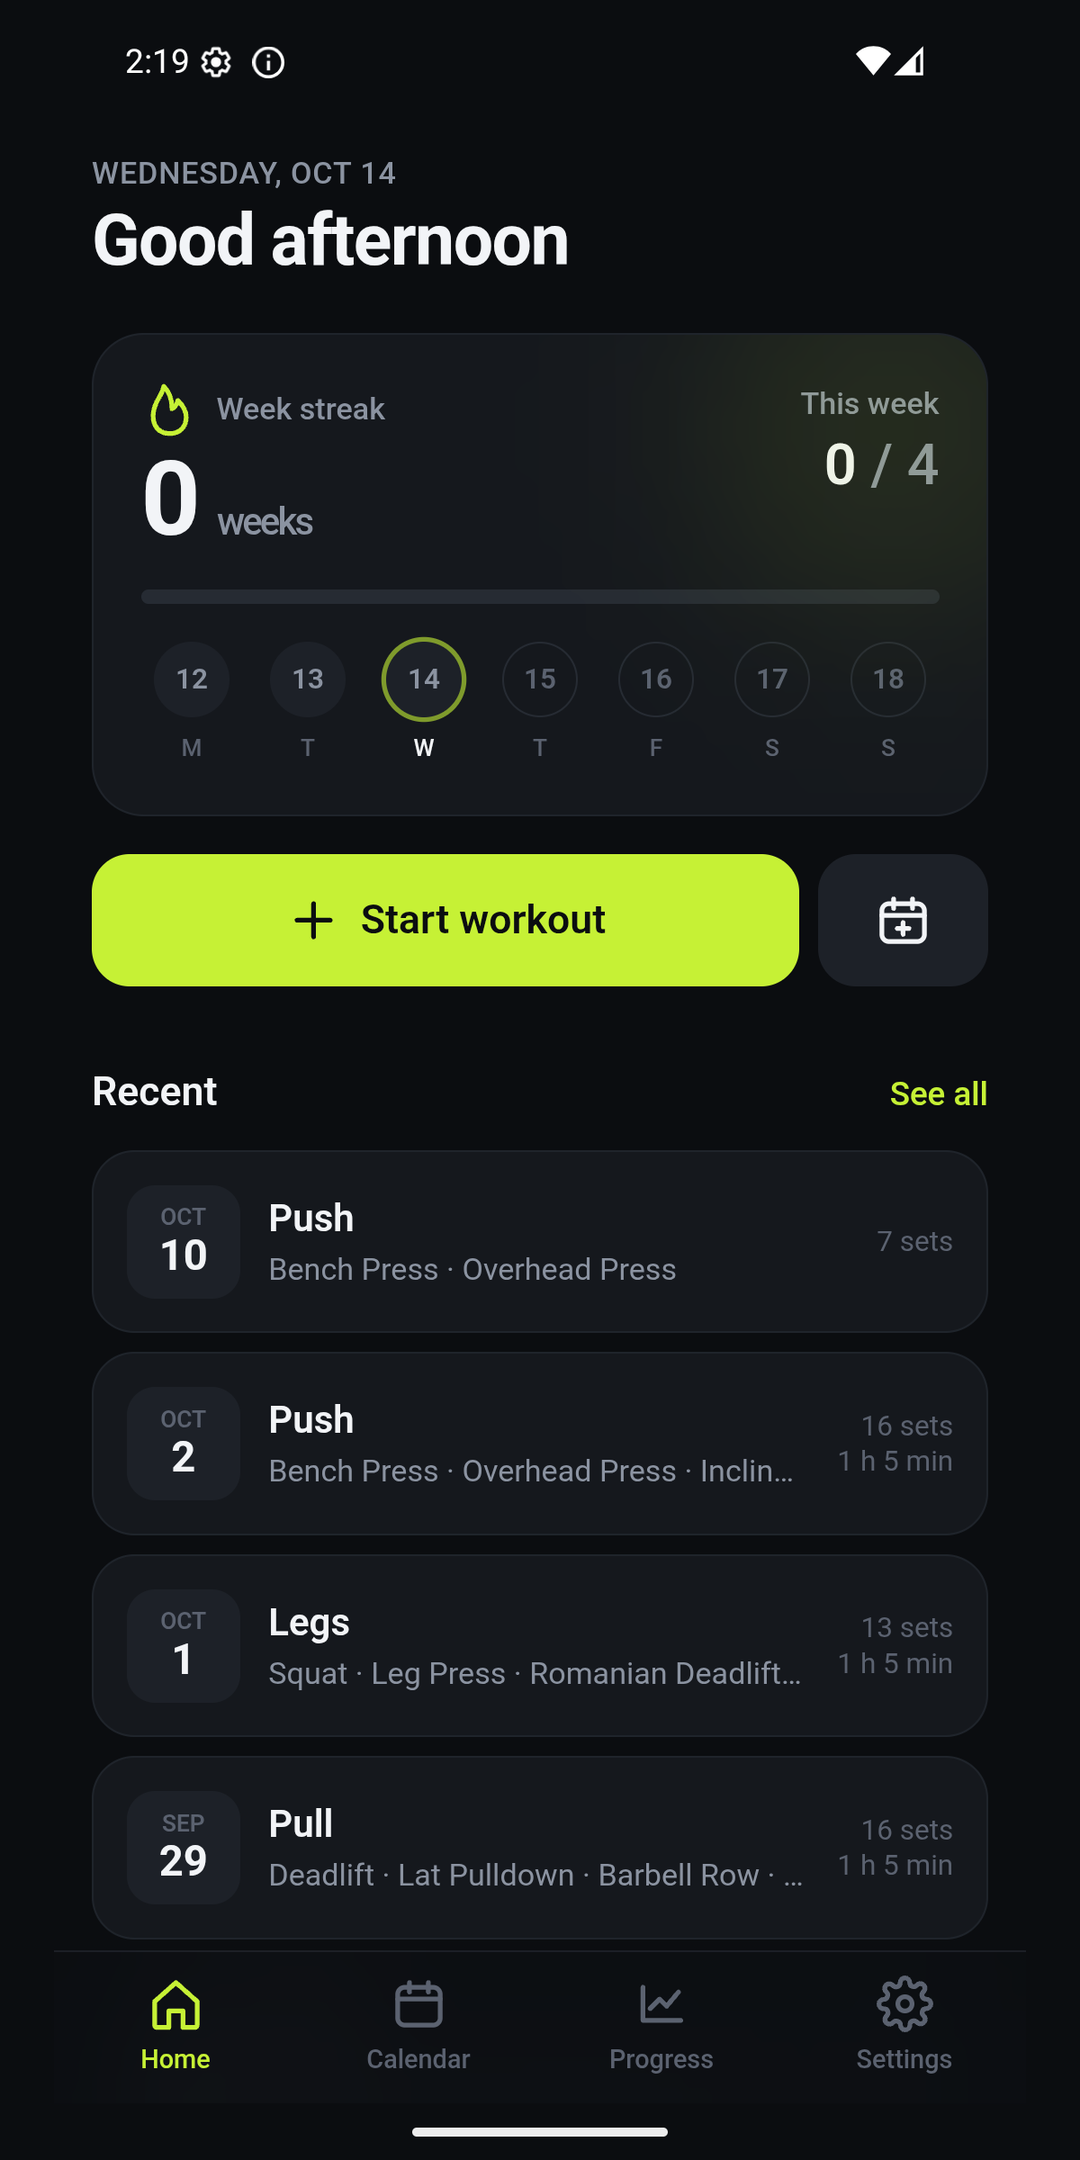
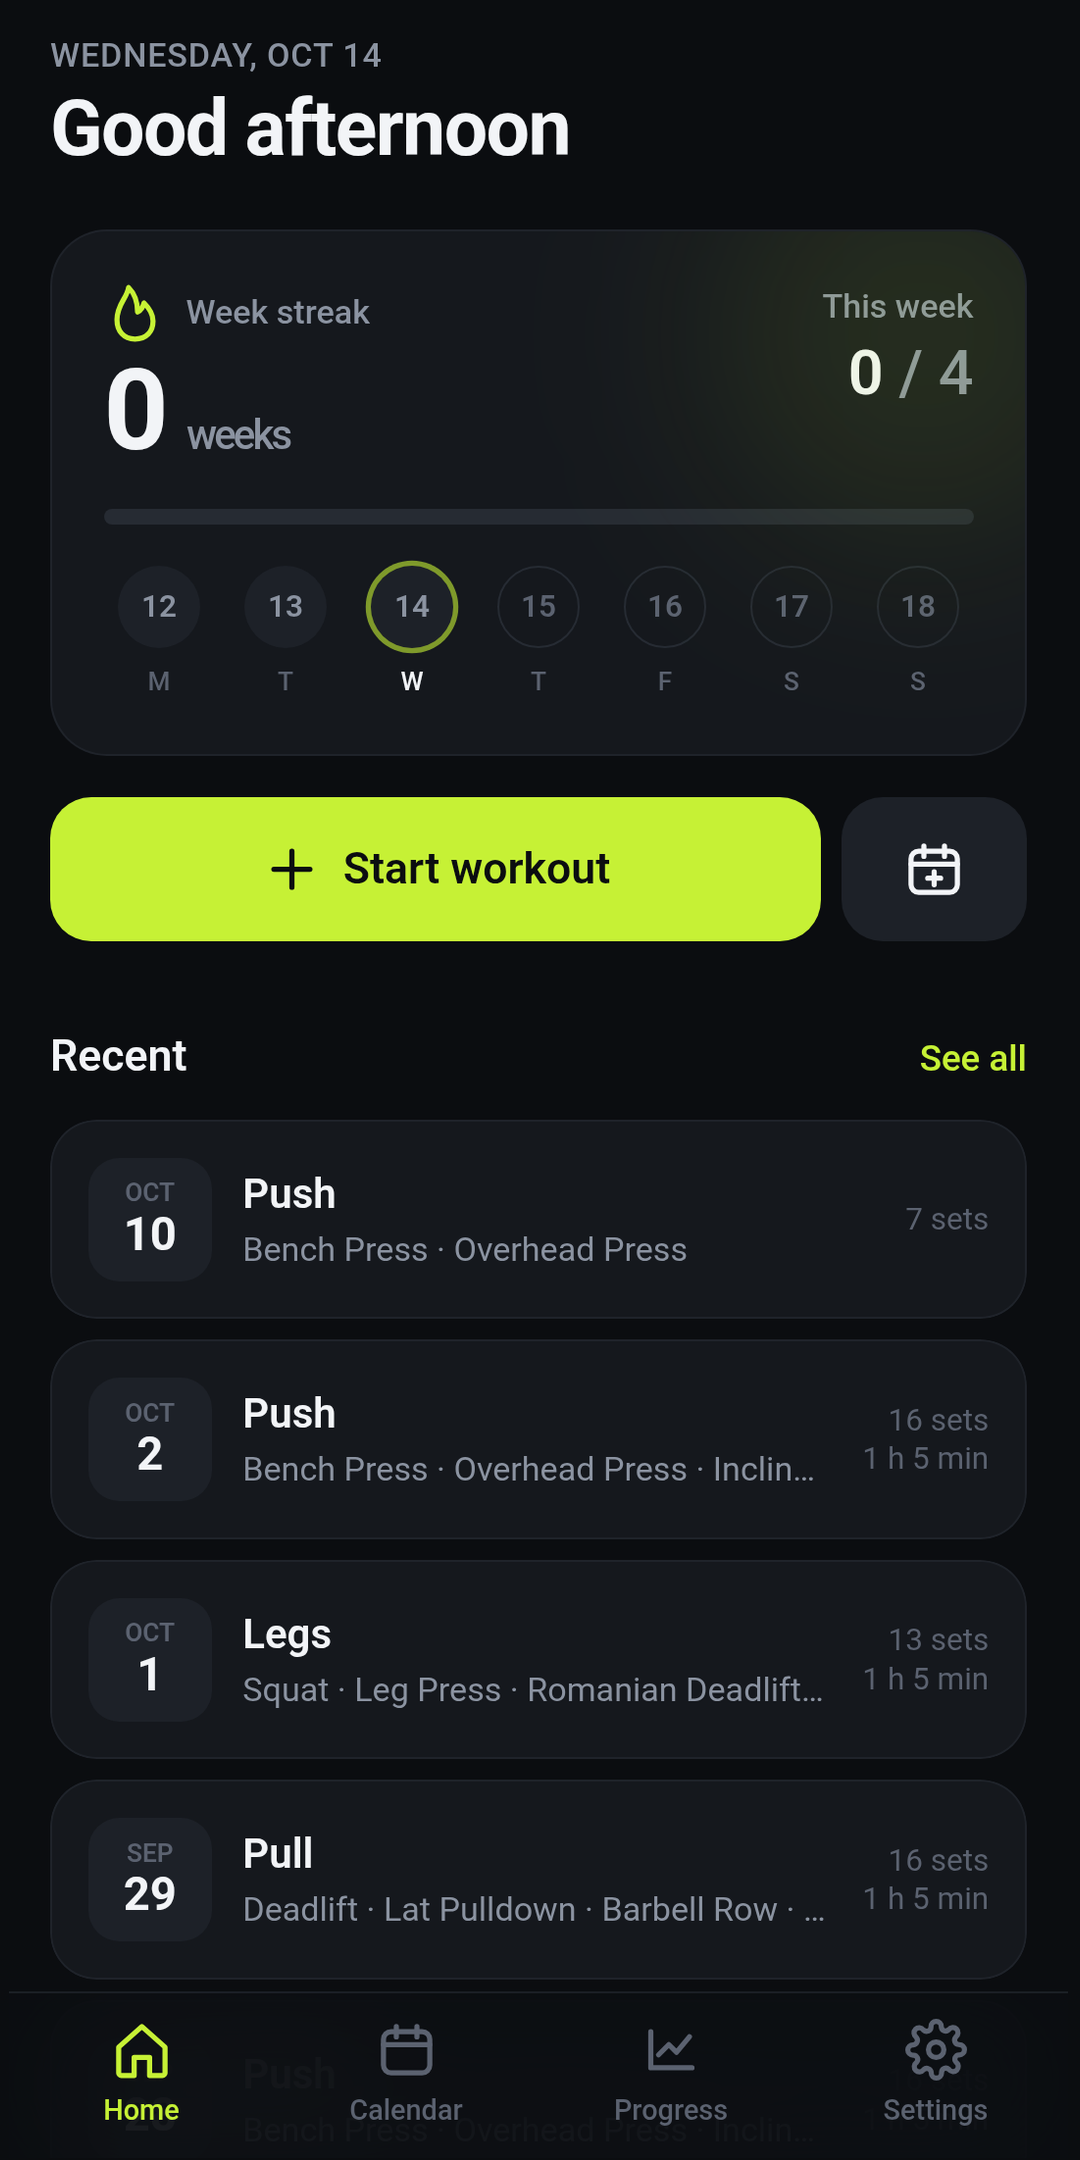
Play listing screenshots captured through the WebView renderer; note the emulator readback artifact
Claude-Session: https://claude.ai/code/session_014h2faL5G6jFsS7HpcvjFmL

diff --git a/docs/android/README.md b/docs/android/README.md
@@ -317,3 +317,7 @@ Both look right; the second has not been screenshotted because that AVD had no f
   before production access).
 - **Predictive back animation** (`android:enableOnBackInvokedCallback`): off, which is Capacitor's
   default; turning it on is cosmetic.
+
+## Screenshots and the emulator's software renderer (2026-10-14)
+
+The headless emulator on this Mac (`-gpu swiftshader_indirect`; the windowed `-gpu host` mode crashes for want of a Vulkan library) shows the workout editor with duplicated, overlapping fragments in `adb screencap`. That is a display-pipeline artifact, not the page: a screenshot taken through the WebView's own DevTools endpoint (`adb forward tcp:9222 localabstract:webview_devtools_remote_<pid>`, then `Page.captureScreenshot`) is clean. The Play Store screenshots in `docs/android/listing/` were therefore captured through DevTools and framed to 1080 × 2160 (Play's 2:1 limit) on the app's background. Debug builds also restore the last page on relaunch, so a run that opened a workout stays there.
